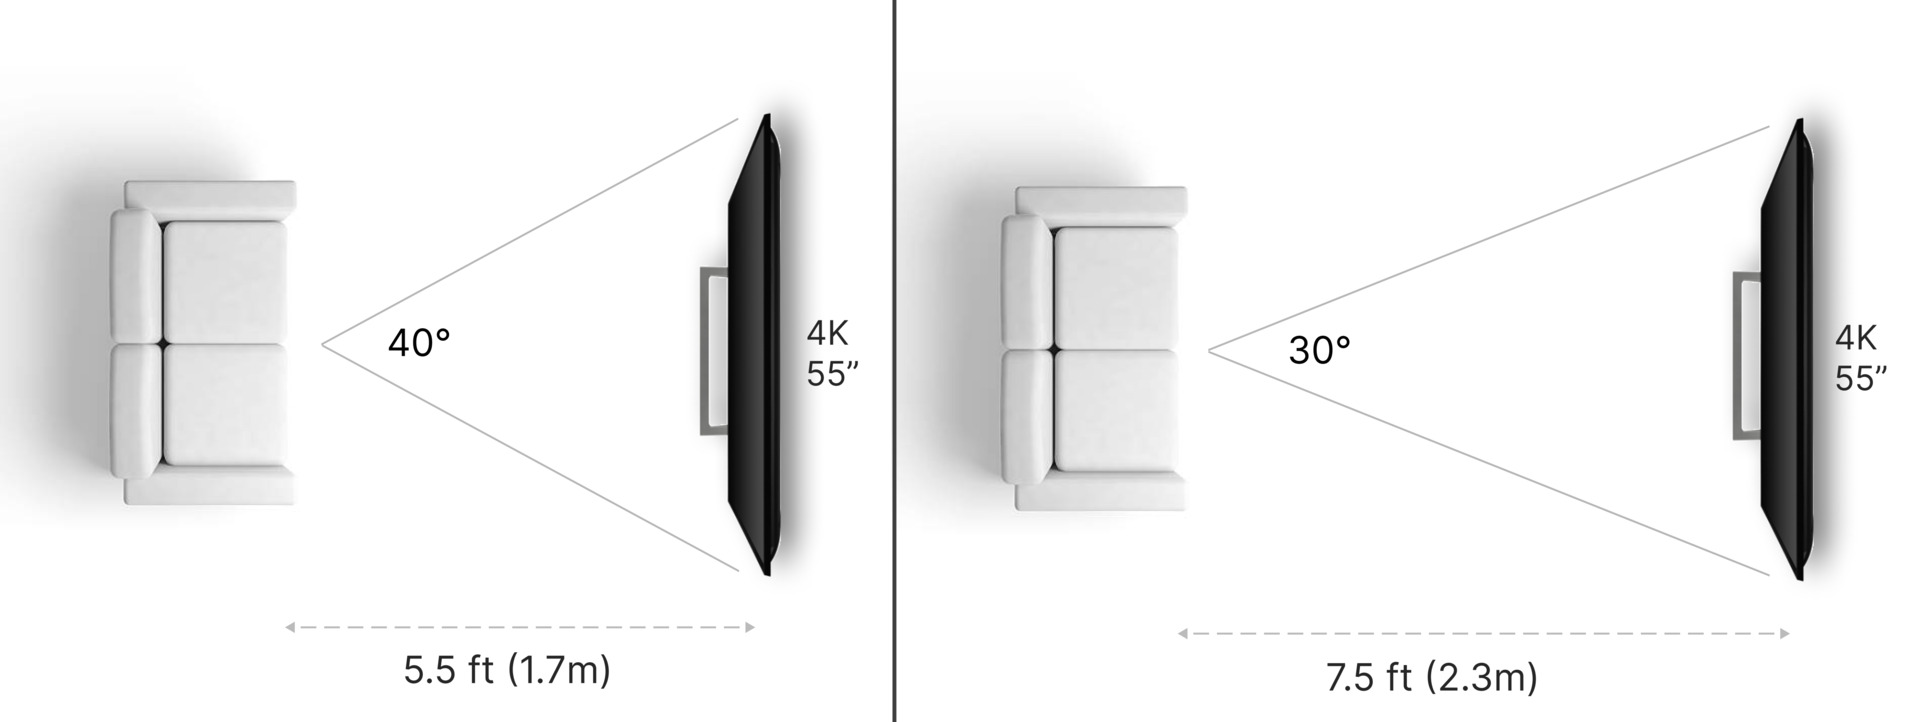
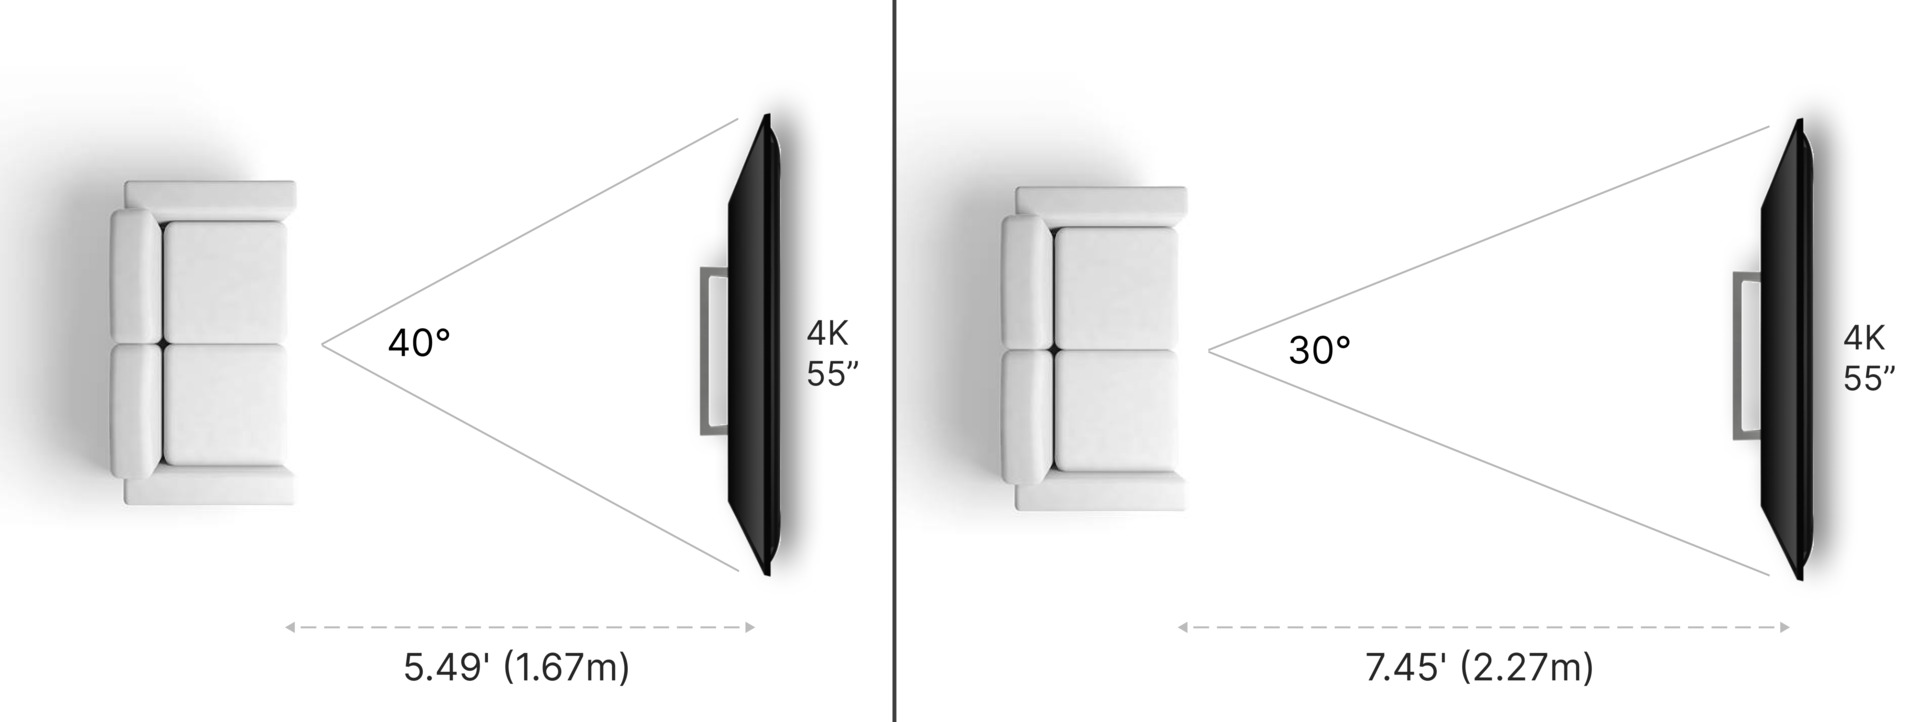
Add table with optimal distances to tv-size-guide post

Changed region(s): [[0.5938, 0.8532, 0.9375, 0.9751], [0.1875, 0.8837, 0.3438, 0.9446], [0.9375, 0.4571, 1.0, 0.5485]]

diff --git a/posts/tv-size-guide.md b/posts/tv-size-guide.md
@@ -1,5 +1,6 @@
 ---
 createdAt: "2023-07-04"
+updatedAt: "2023-07-05"
 title: "TV Size Guide: How to Choose the Perfect Screen Size"
 subtitle: "Find the perfect TV screen size for your needs with our TV Size Guide. Get expert advice and use our TV Size to Distance Calculator today! #what size tv"
 readingTime: 8
@@ -66,6 +67,22 @@ that the TV should occupy **30** degrees of your field of view.
 
 ![Difference between TVs occupying 30 and 40 degrees of field view](/images/posts/tv-size-guide/THX_SMPTE_40_30_degrees_example.jpg)
 _Howbigg_
+
+Here's a table with optimal distances from a 4K UHD TV:
+
+| 4K TV Size | Optimal distance by SMPTE (30°) | Optimal Distance by THX (40°) |
+|------------|---------------------------------|-------------------------------|
+| **40**         | 5.42' (1.65m)                   | 3.99' (1.22m)                 |
+| **43**         | 5.83' (1.78m)                   | 4.29' (1.31m)                 |
+| **50**         | 6.78' (2.07m)                   | 4.99' (1.52m)                 |
+| **55**         | 7.45' (2.27m)                   | 5.49' (1.67m)                 |
+| **60**         | 8.13' (2.48m)                   | 5.99' (1.82m)                 |
+| **65**         | 8.81' (2.69m)                   | 6.49' (1.98m)                 |
+| **70**         | 9.49' (2.89m)                   | 6.98' (2.13m)                 |
+| **75**         | 10.17' (3.1m)                   | 7.48' (2.28m)                 |
+| **80**         | 10.84' (3.31m)                  | 7.98' (2.43m)                 |
+| **85**         | 11.52' (3.51m)                  | 8.48' (2.58m)                 |
+| **90**         | 12.2' (3.72m)                   | 8.98' (2.74m)                 |
 
 In addition to this, THX also has [recommendations for the height](https://www.thx.com/questions/where-and-how-should-i-position-my-tv-in-my-living-room/)
 at which the TV should be placed. Ideally, the center of the screen should
@@ -170,22 +187,22 @@ It is this feature that makes it possible for you to sit much closer in
 front of a 4K TV than in front of a Full HD one and still enjoy a great
 picture.
 
-Below is a table with the minimum distances from the TV, for Full HD
-(1920x1080) and 4K UHD (3840x2160) resolutions:
+Below is a table with the minimum distances from the TV
+for Full HD (1920x1080) and 4K UHD (3840x2160) resolutions:
 
 | TV Size | Full HD Minimum Distance | 4K UHD Minimum Distance |
 |---------|--------------------------|-------------------------|
-| 40      | 5.07' (1.54m)            | 2.32' (0.71m)           |
-| 43      | 5.45' (1.66m)            | 2.5' (0.76m)            |
-| 50      | 6.33' (1.93m)            | 2.91' (0.89m)           |
-| 55      | 6.97' (2.12m)            | 3.2' (0.97m)            |
-| 60      | 7.6' (2.32m)             | 3.49' (1.06m)           |
-| 65      | 8.23' (2.51m)            | 3.78' (1.15m)           |
-| 70      | 8.87' (2.7m)             | 4.07' (1.24m)           |
-| 75      | 9.5' (2.9m)              | 4.36' (1.33m)           |
-| 80      | 10.13' (3.09m)           | 4.65' (1.42m)           |
-| 85      | 10.76' (3.28m)           | 4.94' (1.51m)           |
-| 90      | 11.4' (3.47m)            | 5.23' (1.59m)           |
+| **40**      | 5.07' (1.54m)            | 2.32' (0.71m)           |
+| **43**      | 5.45' (1.66m)            | 2.5' (0.76m)            |
+| **50**      | 6.33' (1.93m)            | 2.91' (0.89m)           |
+| **55**      | 6.97' (2.12m)            | 3.2' (0.97m)            |
+| **60**      | 7.6' (2.32m)             | 3.49' (1.06m)           |
+| **65**      | 8.23' (2.51m)            | 3.78' (1.15m)           |
+| **70**      | 8.87' (2.7m)             | 4.07' (1.24m)           |
+| **75**      | 9.5' (2.9m)              | 4.36' (1.33m)           |
+| **80**      | 10.13' (3.09m)           | 4.65' (1.42m)           |
+| **85**      | 10.76' (3.28m)           | 4.94' (1.51m)           |
+| **90**      | 11.4' (3.47m)            | 5.23' (1.59m)           |
 
 ## 5. Common Mistakes to Avoid When Selecting new TV
 ### Overlooking the importance of viewing distance in relation to screen size
